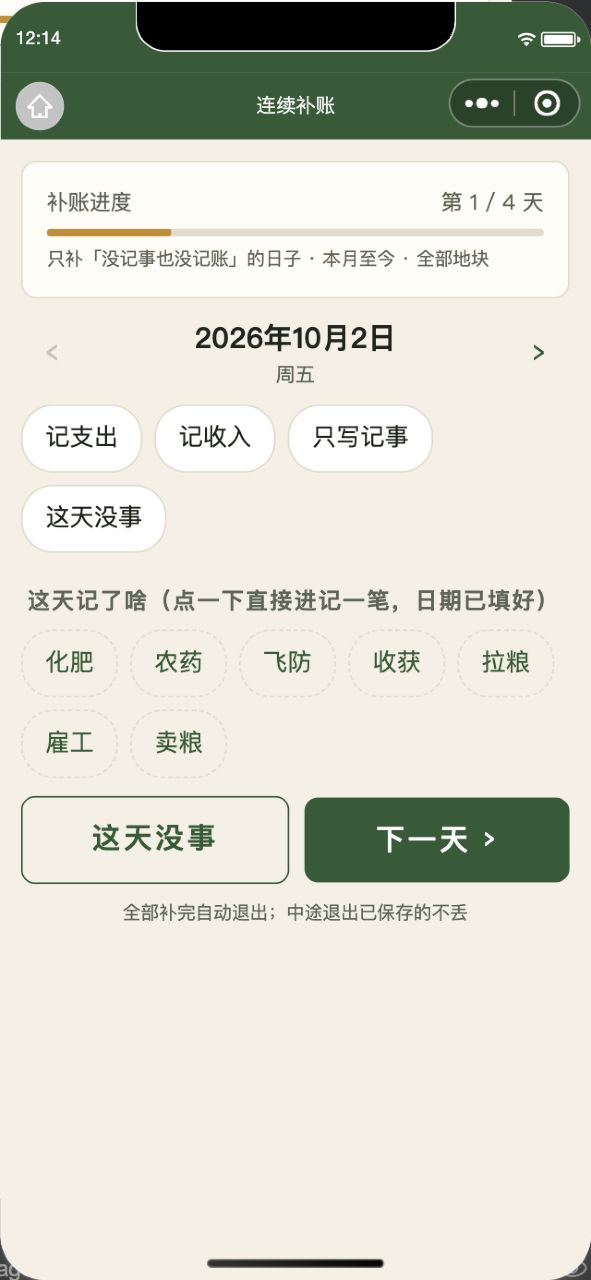
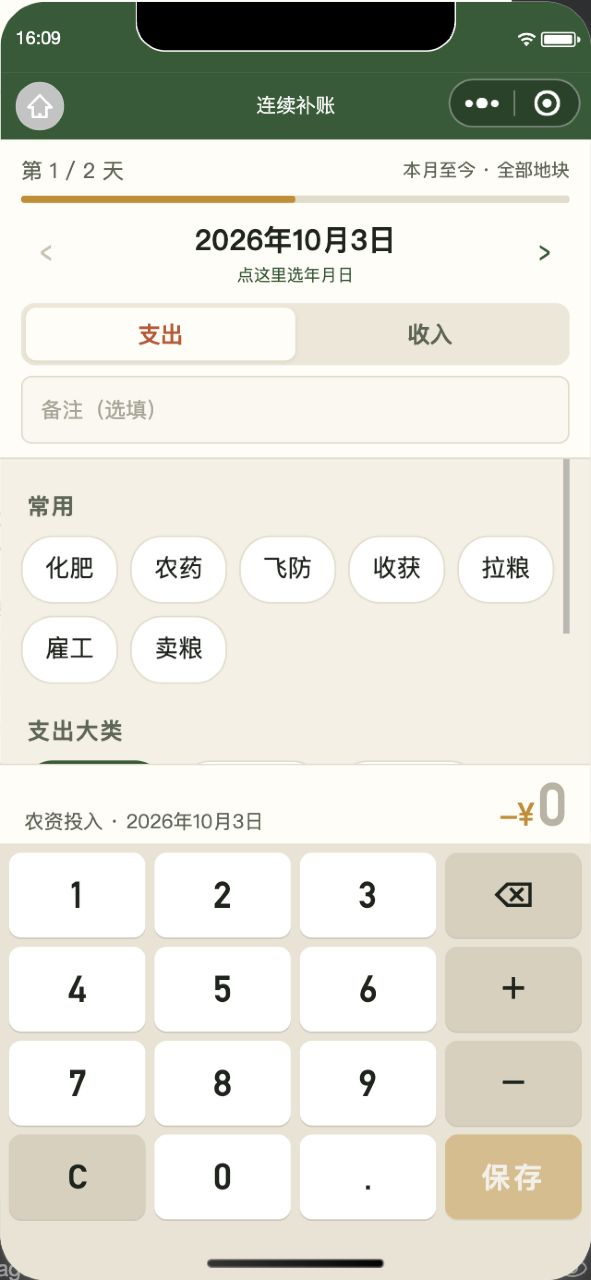
fix(记一笔/补账): 按真机反馈修四处 - 记一笔 chip 行改为换行铺满，不再被压扁成看不清的残字 - 所有弹层加右上角 ✕；赊账弹层补「取消」按钮 - 键盘按压反馈去掉 filter/transform（iOS 会整块重绘导致抖动）；记一笔/补账页改 position:fixed，不再被安全区撑出滚动 - 连续补账重做：日期可选年月日、页内直接记账（不再二次跳转）、去掉「只写记事/这天没事/最近记的/底部说明」

diff --git a/miniprogram/pages/catchup/catchup.js b/miniprogram/pages/catchup/catchup.js
@@ -1,13 +1,30 @@
 // 连续补账：把「没记事也没记账」的日子一天一屏补完
+// 记一笔直接在页内完成（选类型 + 键盘输金额 + 保存），不再二次跳转
 const store = require('../../utils/store.js');
 const stats = require('../../utils/stats.js');
 const C = require('../../utils/const.js');
 const U = require('../../utils/util.js');
+const K = require('../../utils/keypad.js');
 
 const QUICK = ['化肥', '农药', '飞防', '收获', '拉粮', '雇工', '卖粮'];
+const QUICK_MAP = {
+  化肥: { dir: 'out', cat: 'agri', sub: '化肥' },
+  农药: { dir: 'out', cat: 'agri', sub: '农药' },
+  飞防: { dir: 'out', cat: 'mach', sub: '飞防' },
+  收获: { dir: 'out', cat: 'mach', sub: '收获' },
+  拉粮: { dir: 'out', cat: 'trans', sub: '拉粮' },
+  雇工: { dir: 'out', cat: 'labor', sub: '按天用工' },
+  卖粮: { dir: 'in', cat: 'grain', sub: '卖粮' }
+};
 
 Page({
-  data: { seasonId: '', scopeLabel: '', from: '', to: '', days: [], idx: 0, cur: null, done: 0, total: 0, quick: QUICK, recent: [] },
+  data: {
+    seasonId: '', scopeLabel: '', from: '', to: '', days: [], idx: 0, cur: null, total: 0,
+    quick: QUICK,
+    dirs: [{ k: 'out', n: '支出' }, { k: 'in', n: '收入' }],
+    dir: 'out', cats: [], cat: 'agri', subs: [], sub: '', label: '',
+    expr: '', amt: 0, amtText: '0', note: ''
+  },
 
   onLoad(q) {
     const to = U.today();
@@ -22,68 +39,110 @@ Page({
       }
     }
     this.setData({ seasonId: sid, from, to, scopeLabel });
+    this.syncCats();
     this.refresh();
   },
   onShow() { this.refresh(); },
 
-  missing() {
-    return stats.missingDays(this.data.from, this.data.to, this.data.seasonId);
-  },
+  missing() { return stats.missingDays(this.data.from, this.data.to, this.data.seasonId); },
 
   refresh() {
     const days = this.missing();
     let idx = this.data.idx;
     if (idx >= days.length) idx = 0;
-    this.setData({ days, idx, total: days.length, cur: days.length ? this.curView(days[idx]) : null, recent: this.recentView(), done: 0 });
+    // 没有缺记的日子也要能记：默认停在 today，用户还能自己选日期
+    const cur = days.length ? this.curView(days[idx]) : this.curView(this.data.to);
+    this.setData({ days, idx, total: days.length, cur });
   },
 
   curView(d) {
     const s = this.data.seasonId ? store.seasons.get(this.data.seasonId) : null;
     return {
       date: d, dateText: U.cnDate(d, true), week: U.weekday(d),
-      dayN: s ? U.diffDays(s.sowDate, d) + 1 : 0,
-      w: s ? (store.weather.get(s.plotId, d) || null) : null
+      dayN: s ? U.diffDays(s.sowDate, d) + 1 : 0
     };
   },
 
-  recentView() {
-    const out = [];
-    store.costs.all().slice(0, 3).forEach(c => out.push({
-      id: c.id, text: (store.isIncome(c) ? '收 ' : '支 ') + C.catOf(c.cat).name + ' ¥' + U.money(store.allocTotal(c)), date: c.date
-    }));
-    return out;
+  // ---------- 日期 ----------
+  // 选年月日：选完直接把这天当成当前补账日（哪怕它不在「缺记」列表里，也能补）
+  onDate(e) {
+    const d = e.detail.value;
+    const days = this.missing().slice();
+    let idx = days.indexOf(d);
+    if (idx < 0) { days.push(d); days.sort(); idx = days.indexOf(d); }
+    this.setData({ days, idx, total: days.length, cur: this.curView(d) });
   },
-
-  pos() { return (this.data.idx + 1) + ' / ' + this.data.total; },
+  prev() { if (this.data.idx > 0) { this.setData({ idx: this.data.idx - 1 }); this.refresh(); } },
   next() {
+    if (!this.data.days.length) { U.toast('这段没有缺记的日子'); return; }
     if (this.data.idx + 1 >= this.data.days.length) {
-      U.toast('这几天都看过了', 'success');
+      U.toast('这批都补完了', 'success');
+      setTimeout(() => wx.navigateBack(), 600);
       return;
     }
     this.setData({ idx: this.data.idx + 1 });
     this.refresh();
   },
-  prev() { if (this.data.idx > 0) { this.setData({ idx: this.data.idx - 1 }); this.refresh(); } },
-  exit() { wx.navigateBack(); },
 
-  // 四种动作
-  addOut(e) {
-    const d = this.data.cur;
-    const sub = e && e.currentTarget.dataset.s;
-    const q = sub ? '&cat=agri&sub=' + encodeURIComponent(sub) : '';
-    if (sub === '卖粮') { wx.navigateTo({ url: '/pages/cost-edit/cost-edit?date=' + d.date + '&cat=grain&dir=in' }); return; }
-    wx.navigateTo({ url: '/pages/cost-edit/cost-edit?date=' + d.date + q });
+  // ---------- 类型 ----------
+  syncCats() {
+    const dir = this.data.dir;
+    if (dir === 'in') {
+      const list = store.tags.income();
+      const cats = list.map(n => ({ key: C.incomeKeyOf(n), name: n, color: C.INCOME_COLOR }));
+      const cur = cats.find(c => c.name === this.data.sub) || cats[0];
+      this.setData({ cats, cat: cur.key, sub: cur.name, subs: [], label: cur.name });
+      return;
+    }
+    const cats = C.COST_CATS.map(c => ({ key: c.key, name: c.name, color: c.color }));
+    let cat = this.data.cat;
+    if (!cats.some(c => c.key === cat)) cat = cats[0].key;
+    const subs = (C.catOf(cat).subs || []).slice();
+    const sub = subs.indexOf(this.data.sub) >= 0 ? this.data.sub : '';
+    const c0 = C.catOf(cat);
+    this.setData({ cats, cat, subs, sub, label: c0.name + (sub ? ' · ' + sub : '') });
   },
-  addIn() { wx.navigateTo({ url: '/pages/cost-edit/cost-edit?date=' + this.data.cur.date + '&dir=in' }); },
-  addLog() { wx.navigateTo({ url: '/pages/log-edit/log-edit?date=' + this.data.cur.date + (this.data.seasonId ? '&seasonId=' + this.data.seasonId : '') }); },
-  markNone() {
-    const d = this.data.cur;
-    const sid = this.data.seasonId || (store.seasons.growing()[0] || {}).id;
+  pickDir(e) { this.setData({ dir: e.currentTarget.dataset.k, sub: '', expr: '', amt: 0, amtText: '0' }); this.syncCats(); },
+  pickQuick(e) {
+    const k = e.currentTarget.dataset.s;
+    const m = QUICK_MAP[k];
+    if (!m) return;
+    this.setData({ dir: m.dir, cat: m.cat, sub: m.sub });
+    this.syncCats();
+  },
+  pickCat(e) {
+    const k = e.currentTarget.dataset.k, n = e.currentTarget.dataset.n;
+    if (this.data.dir === 'in') { this.setData({ cat: k, sub: n, label: n }); return; }
+    this.setData({ cat: k, sub: '' });
+    this.syncCats();
+  },
+  pickSub(e) { this.setData({ sub: e.currentTarget.dataset.s }); this.syncCats(); },
+  onNote(e) { this.setData({ note: e.detail.value }); },
+
+  // ---------- 金额 ----------
+  onKey(e) {
+    const d = e.detail;
+    this.setData({ expr: d.expr, amt: d.value, amtText: U.money(d.value) });
+  },
+  onDone() { this.save(); },
+
+  save() {
+    const d = this.data;
+    if (!(d.amt > 0)) return U.toast('先输入金额');
+    if (!d.cur) return;
+    const sid = d.seasonId || (store.seasons.growing()[0] || {}).id;
     if (!sid) return U.toast('先开一个种植季');
     store.setAuditSrc('catchup');
-    store.logs.save({ seasonId: sid, date: d.date, ops: [], text: '这天没事', noop: true });
+    store.costs.save({
+      date: d.cur.date, dir: d.dir, cat: d.cat, sub: d.sub,
+      allocations: [{ seasonId: sid, amount: d.amt }],
+      expr: K.hasOp(d.expr) ? d.expr : undefined,
+      note: d.note.trim()
+    });
     store.setAuditSrc('local');
-    U.toast('记下了，这天不用补');
+    U.toast('记好了');
+    this.setData({ expr: '', amt: 0, amtText: '0', note: '' });
+    this.refresh();
     this.next();
   }
 });
